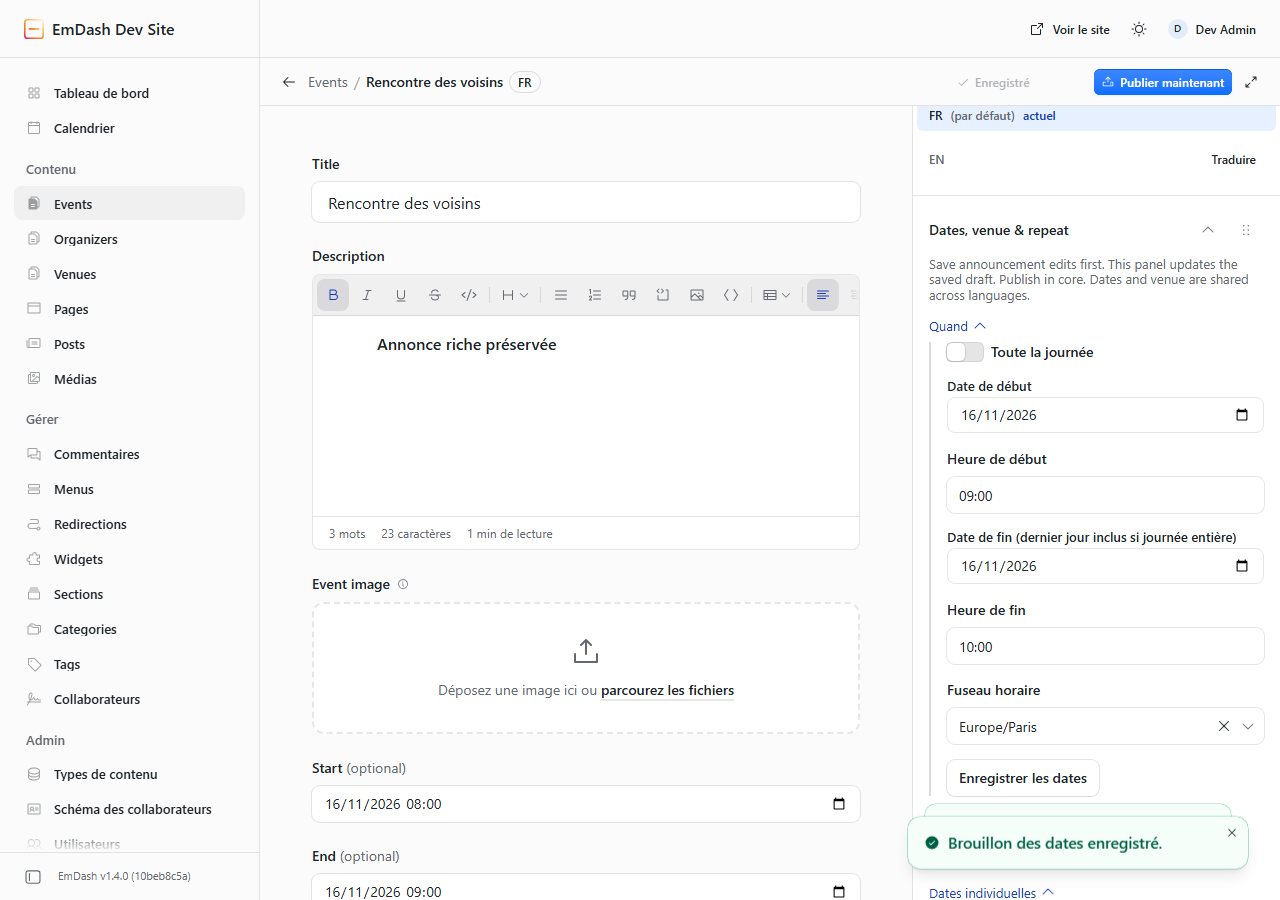
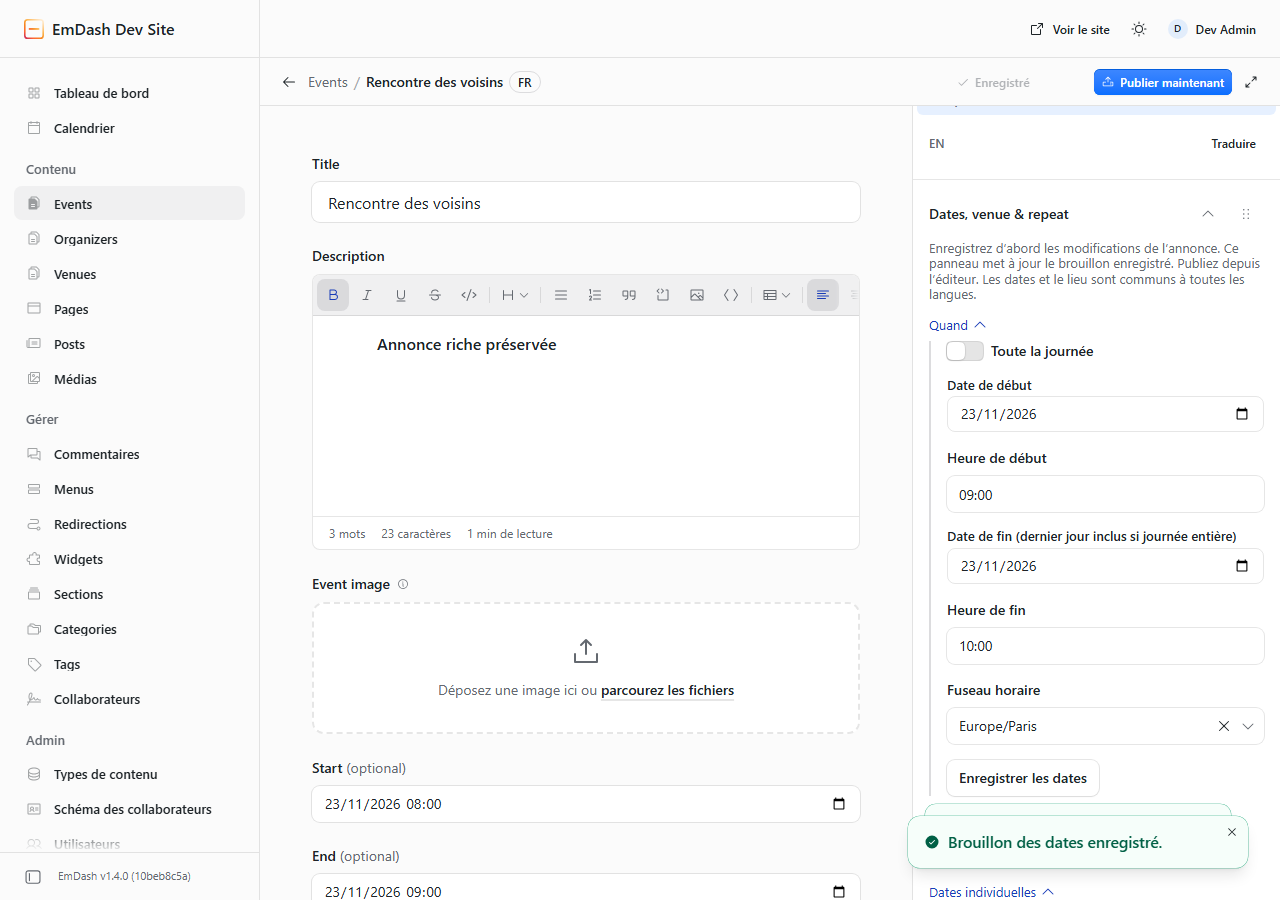
0.18.0 acceptance: refreshed registry screenshots; language-pack list built against locales 0.1.10 (core catalogs unchanged)

diff --git a/src/ui/locales/manifest.ts b/src/ui/locales/manifest.ts
@@ -1,2 +1,2 @@
 // Generated by eventual-locales-pack from @vermeulen.solutions/eventual-locales. Do not edit.
-export default {"package":"@vermeulen.solutions/eventual-locales","version":"0.1.5","namespace":"core","hashes":{"ar":"Jr+SsiJppqn2rr/WpJigRw","cs":"BbmJhujNUiL8fDBw/+wCSw","da":"Ij9IaV5B7gd+am4YKMcedw","de":"ADmFQCy+Pv3q6PQSBk7xKQ","es":"cr3OI43MX3EWALXbjnsy8w","fi":"OLwpZx/szCaR5fcj8oeMaA","fr":"FeirW6Y9C44xXOyGFL92hA","he":"tKYZPpsv0f3z/Ms4/Tm7Lw","it":"0NiDiE62pLdaGfmXKRcxGA","ja":"rQsLMNECmEpjxZjz7Wrrww","ko":"Wx1hBxDHnVUVZ/0hdbvJjA","nb":"EirSx4KtSzX4NeN+TbK1aw","nl":"XvvsZpZE2RpqMAPV8bENeg","pl":"AK0ph74u6zSkAiTlsQX8bg","pt-BR":"D2Gp1nCw+85dT6fYcnQK4A","pt":"c4JysqbI2mVcHXwlQn//XA","sv":"fTU5PPBSLJJfkW20fY6Nlg","tr":"uH3GpUPNIN9znD3hNVxTFw","uk":"jnSPOMPPXXq2RvcLB9c6LQ","zh-CN":"ltuv2/7aXv+T0FZFFWIyAQ"}};
+export default {"package":"@vermeulen.solutions/eventual-locales","version":"0.1.10","namespace":"core","hashes":{"ar":"Jr+SsiJppqn2rr/WpJigRw","cs":"BbmJhujNUiL8fDBw/+wCSw","da":"Ij9IaV5B7gd+am4YKMcedw","de":"ADmFQCy+Pv3q6PQSBk7xKQ","es":"cr3OI43MX3EWALXbjnsy8w","fi":"OLwpZx/szCaR5fcj8oeMaA","fr":"FeirW6Y9C44xXOyGFL92hA","he":"tKYZPpsv0f3z/Ms4/Tm7Lw","it":"0NiDiE62pLdaGfmXKRcxGA","ja":"rQsLMNECmEpjxZjz7Wrrww","ko":"Wx1hBxDHnVUVZ/0hdbvJjA","nb":"EirSx4KtSzX4NeN+TbK1aw","nl":"XvvsZpZE2RpqMAPV8bENeg","pl":"AK0ph74u6zSkAiTlsQX8bg","pt-BR":"D2Gp1nCw+85dT6fYcnQK4A","pt":"c4JysqbI2mVcHXwlQn//XA","sv":"fTU5PPBSLJJfkW20fY6Nlg","tr":"uH3GpUPNIN9znD3hNVxTFw","uk":"jnSPOMPPXXq2RvcLB9c6LQ","zh-CN":"ltuv2/7aXv+T0FZFFWIyAQ"}};
